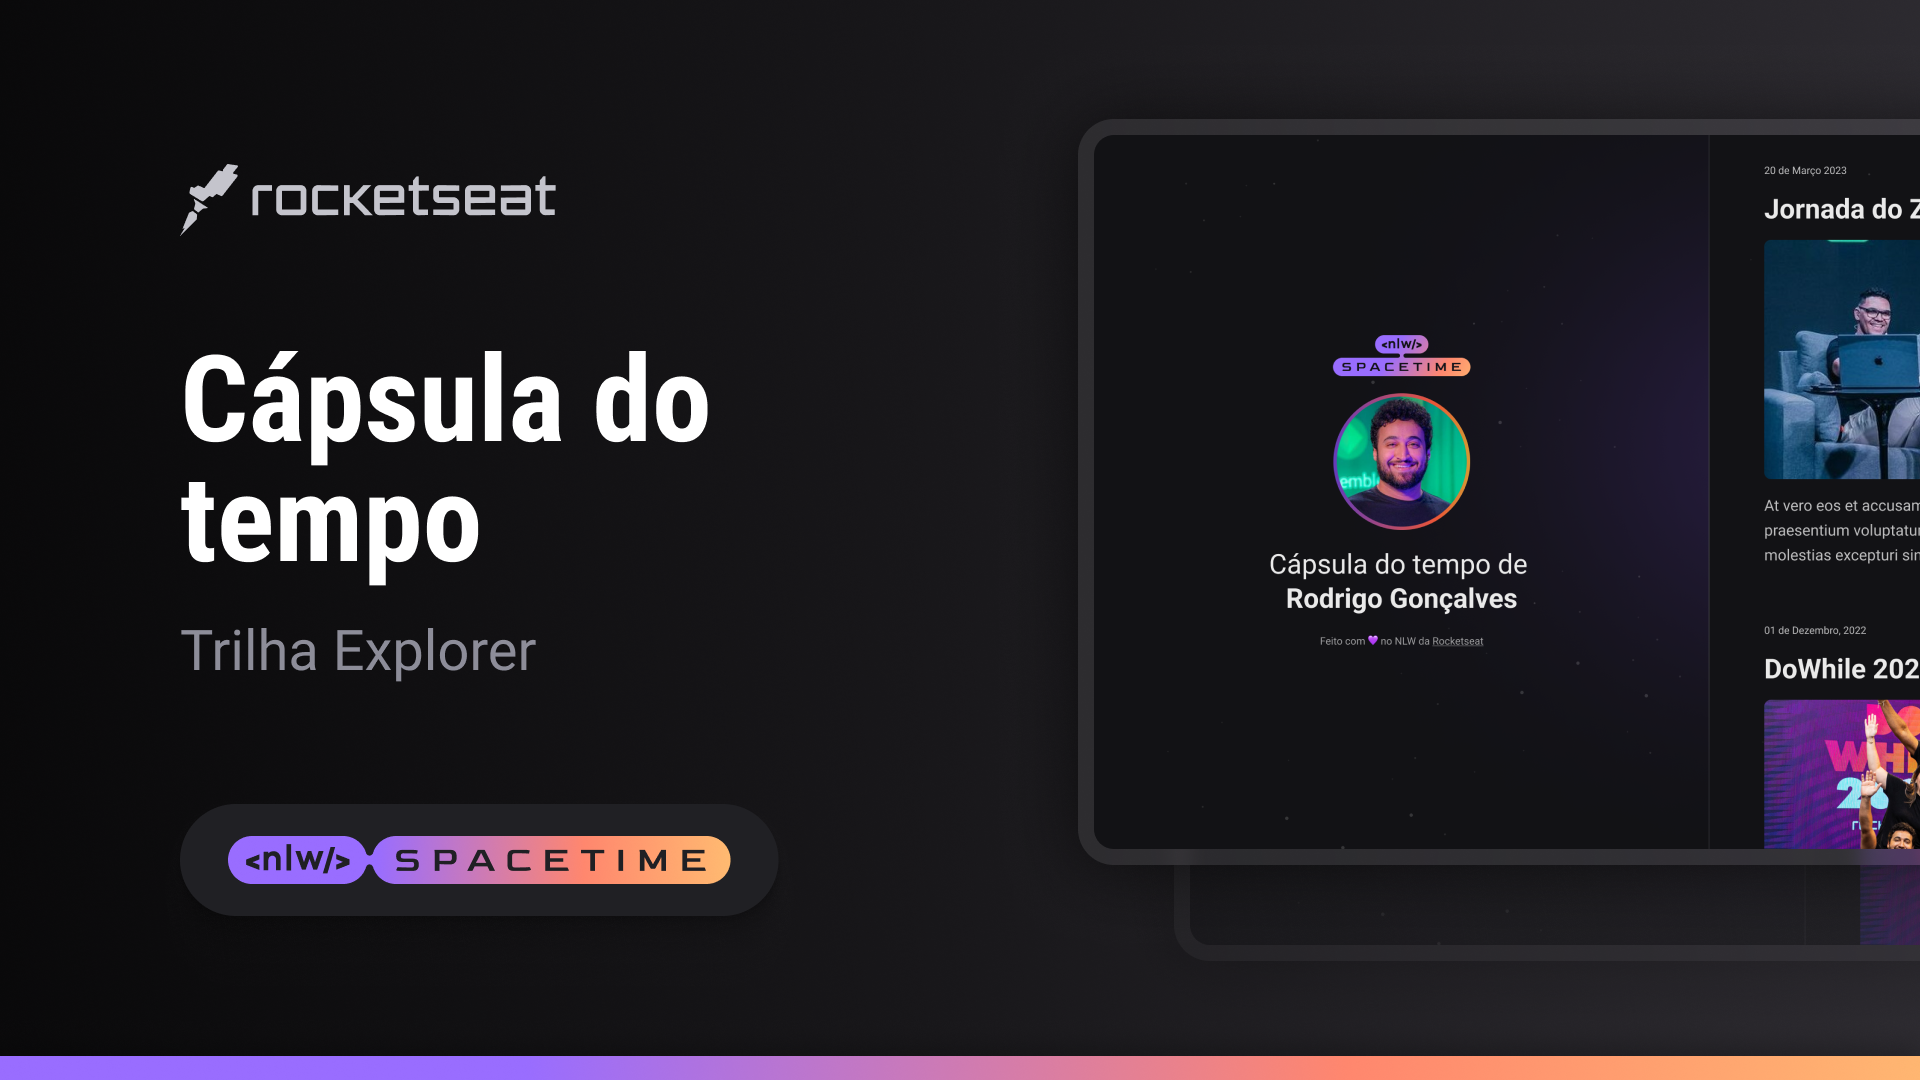
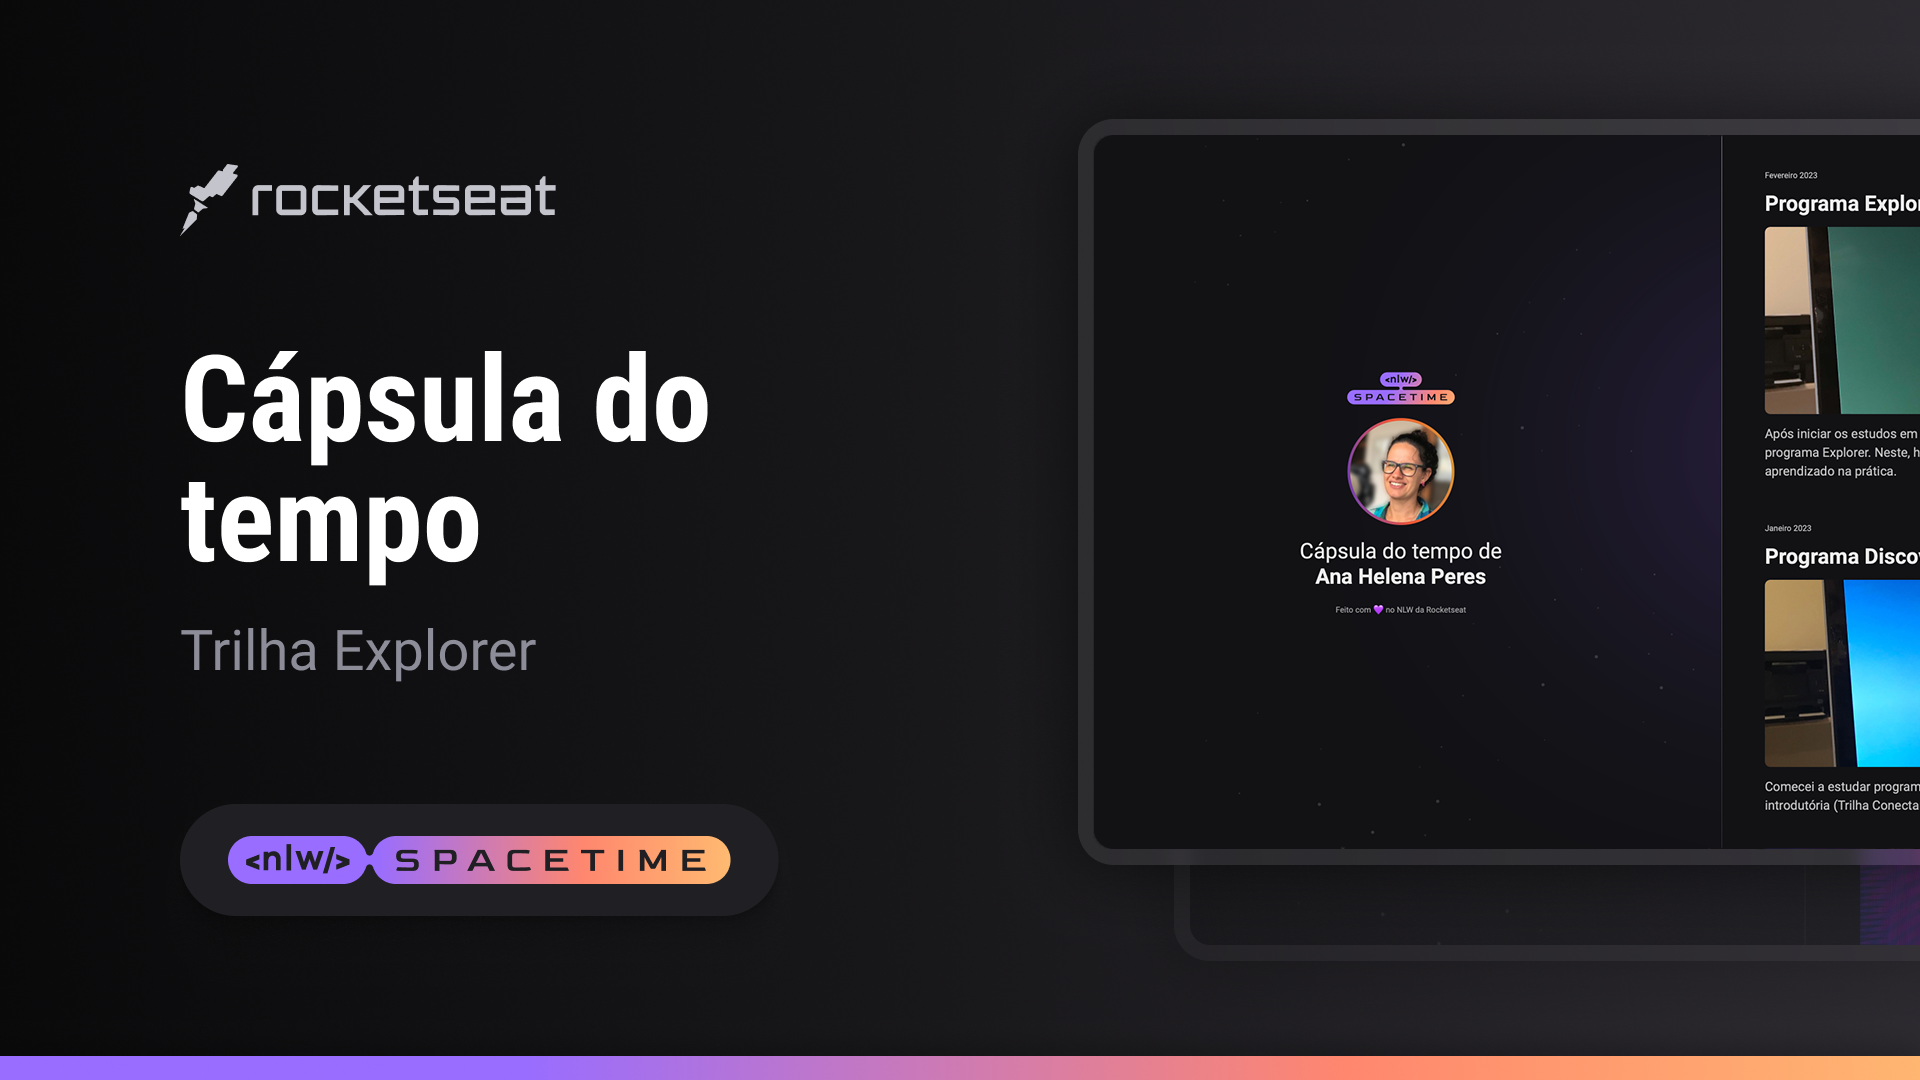
README.md update

Changed region(s): [[0.875, 0.1528, 1.0, 0.7944], [0.6562, 0.3056, 0.8125, 0.6111]]

diff --git a/README.md b/README.md
@@ -2,6 +2,25 @@
   <img src=".github/preview.png" alt="Demonstracao do projeto" width="100%">
 </p>
 
+🇺🇸
+## 💻 Project
+This is the responsive time capsule of Ana Helena Peres.
+
+## 🚀 Tech
+This project was developed during Rocketseat's NLW, using the following technologies:
+
+- HTML
+- CSS
+- Git e GitHub
+
+## 🏷 Layout
+You can check out the layout [clicking here](https://www.figma.com/file/G8D1vz2YLRndYRjG1YuoAZ/C%C3%A1psula-do-tempo-%E2%80%A2-Trilha-Explorer-(Community)-(Copy)?type=design&node-id=352%3A8&t=zDzql1e37ldHQfdD-1)
+A [Figma](https://www.figma.com/) account is required.
+
+
+<hr/>
+
+🇧🇷
 ## 💻 Projeto
 Esse é um projeto responsivo de uma cápsula do tempo.
 
